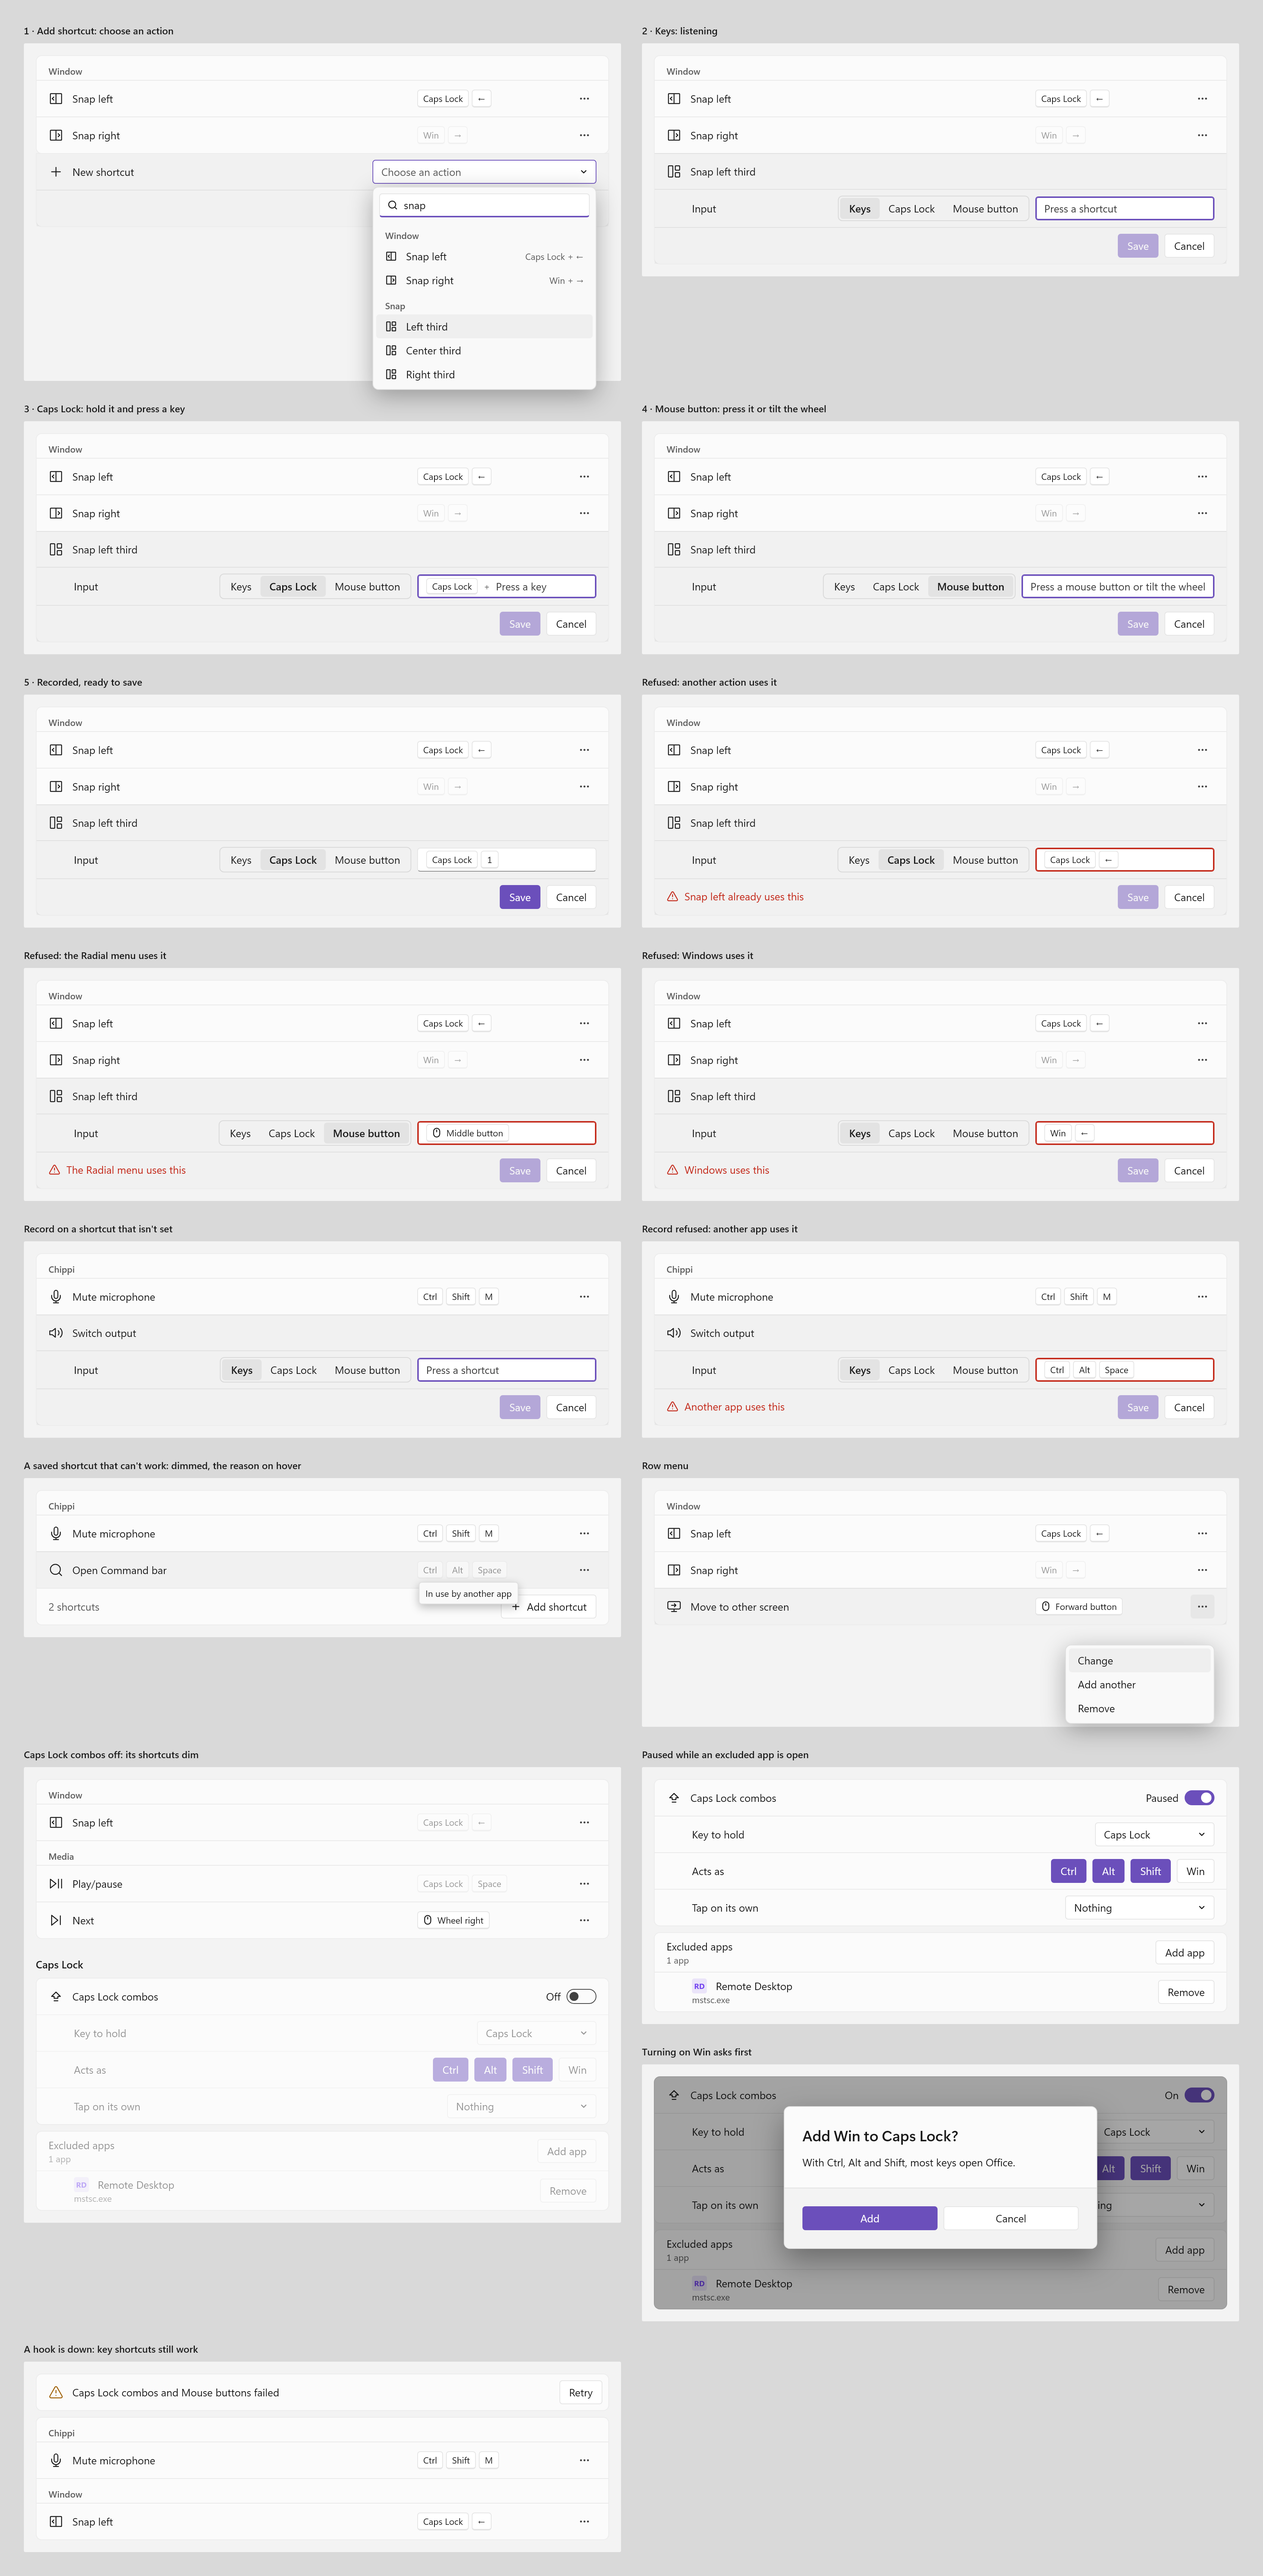
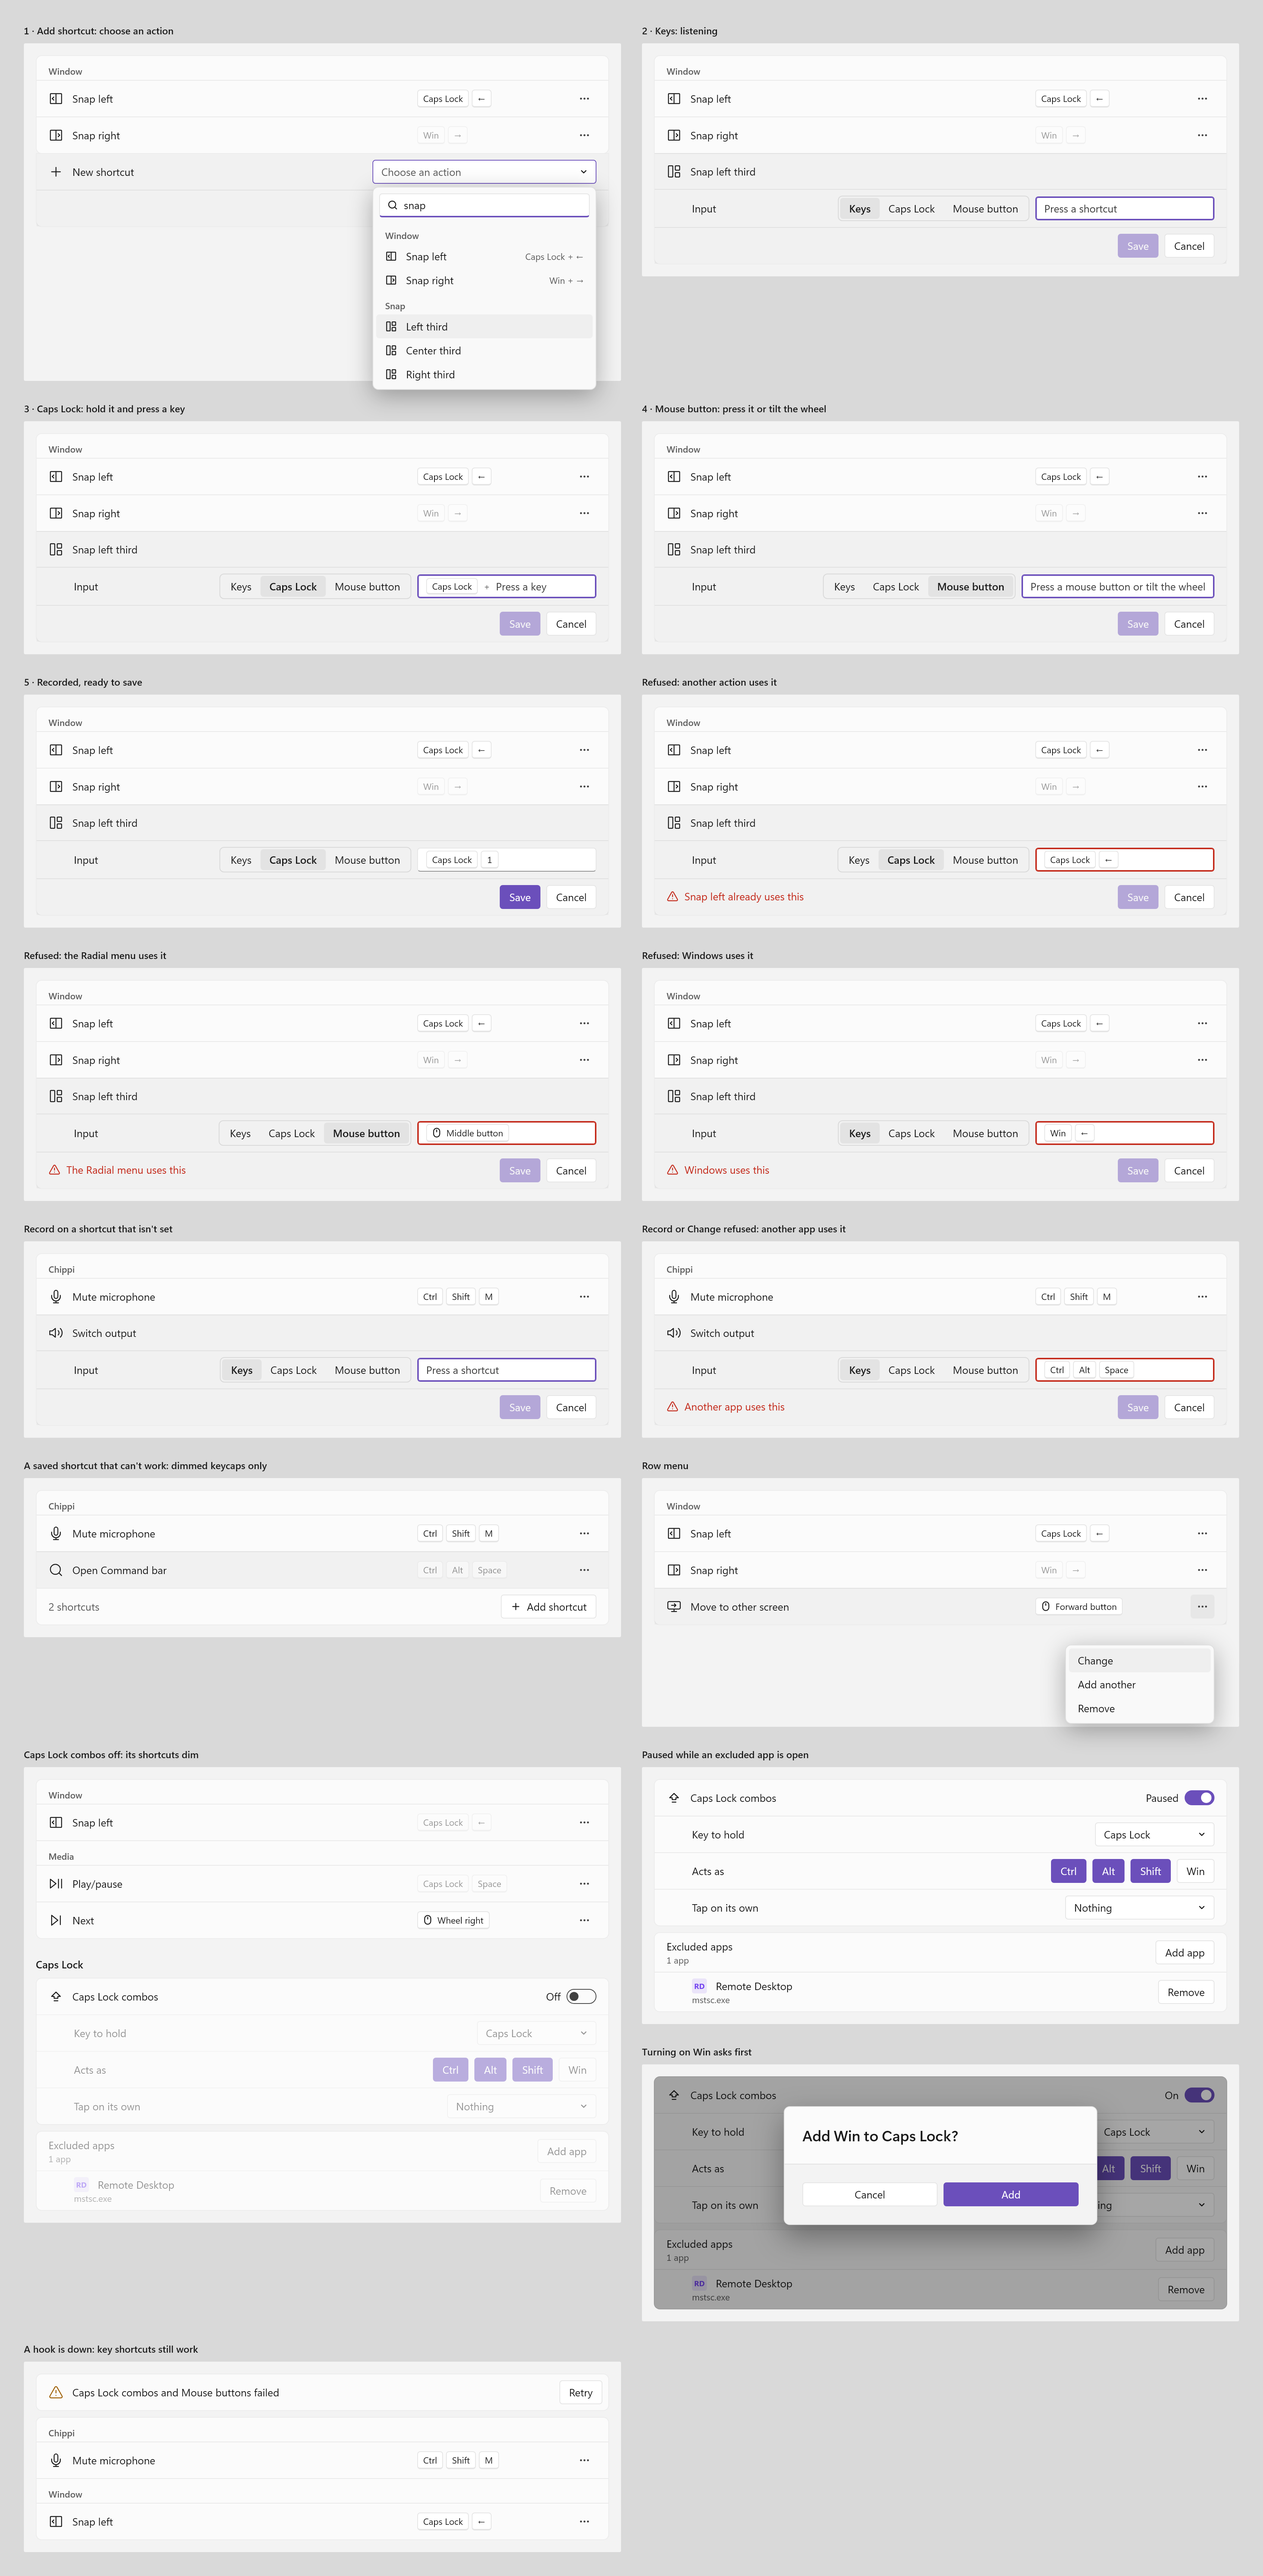
Shortcuts mockup: no tooltip on dimmed keycaps, Win confirm with no body line
Marge's review on #247: dimmed keycaps carry no explaining text, Change
shows the reason; "Add Win to Caps Lock?" with Cancel and Add, in the
app's confirm order.

Changed region(s): [[0.6206, 0.8415, 0.8688, 0.9039]]

diff --git a/docs/phase-6/design/shortcuts.html b/docs/phase-6/design/shortcuts.html
@@ -311,11 +311,11 @@ const cap=x=>x.startsWith('m:')?`<span class="kc">${g('Mouse',14)}${x.slice(2)}<
 const keys=(...k)=>`<span class="caps">${k.map(cap).join('')}</span>`;
 const capsK=k=>keys('Caps Lock',k);
 const btnK=n=>keys('m:'+n);
-const dim=(h,tip)=>h.replace('class="caps"',`class="caps dim" title="${tip}"`);
+const dim=h=>h.replace('class="caps"','class="caps dim"');
 
 /* ---------- the list: one row per binding, grouped like Actions ---------- */
-// state: undefined (Active), or one where the shortcut can't work: its keycaps dim, and the reason is
-// only the keycaps' tooltip and automation name (no state line on the row, Travis task 344).
+// state: undefined (Active), or one where the shortcut can't work: its keycaps only dim. No state line and no
+// tooltip (Travis task 344, Marge on #247); Change shows the reason when it's recorded again.
 const ST={
  other:'In use by another app',
  windows:'In use by Windows',
@@ -324,7 +324,7 @@ const ST={
  inactive:'Caps Lock combos are off'
 };
 const BR=(glyph,name,door,state,o={})=>{const s=ST[state];
- return SR(name,`<span class="kcol">${s?dim(door,s):door}</span>`+(o.unset?'<span class="kspace"></span>':more),{glyph,cls:o.cls});};
+ return SR(name,`<span class="kcol">${s?dim(door):door}</span>`+(o.unset?'<span class="kspace"></span>':more),{glyph,cls:o.cls});};
 const grp=t=>`<div class="grp">${t}</div>`;
 const LIST=[
  ['Chippi',[
@@ -402,8 +402,8 @@ const st={
  windows:card(listRows(head)+editor({glyph:'Snap',action:'Snap left third',door:'Keys',field:filled(keys('Win','←')),warn:'Windows uses this'})),
  recKeys:card(listRows([['Chippi',[LIST[0][1][0]]]])+editor({glyph:'Speaker',action:'Switch output',door:'Keys',field:listening('Press a shortcut')})),
  recOther:card(listRows([['Chippi',[LIST[0][1][0]]]])+editor({glyph:'Speaker',action:'Switch output',door:'Keys',field:filled(keys('Ctrl','Alt','Space')),warn:'Another app uses this'})),
- tip:`<div class="card" style="overflow:visible;position:relative">${listRows([['Chippi',LIST[0][1].slice(0,2)]]).replace(/(<div class="sr)(">(?:(?!<div class="sr).)*Open Command bar)/s,'$1 hov$2')}${addRow('2 shortcuts')}<div class="tip" style="left:512px;top:122px">In use by another app</div></div>`,
- winAsk:`<div style="position:relative">${capsCards()}<div style="position:absolute;inset:0;background:rgba(0,0,0,.35);border-radius:8px"></div><div class="cdlg" style="position:absolute;left:174px;top:40px"><div class="cb1"><div class="ct">Add Win to Caps Lock?</div>With Ctrl, Alt and Shift, most keys open Office.</div><div class="cf">${btn('Add',{acc:1})}${btn('Cancel')}</div></div></div>`,
+ tip:`<div class="card" style="overflow:visible;position:relative">${listRows([['Chippi',LIST[0][1].slice(0,2)]]).replace(/(<div class="sr)(">(?:(?!<div class="sr).)*Open Command bar)/s,'$1 hov$2')}${addRow('2 shortcuts')}</div>`,
+ winAsk:`<div style="position:relative">${capsCards()}<div style="position:absolute;inset:0;background:rgba(0,0,0,.35);border-radius:8px"></div><div class="cdlg" style="position:absolute;left:174px;top:40px"><div class="cb1"><div class="ct" style="margin:0">Add Win to Caps Lock?</div></div><div class="cf">${btn('Cancel')}${btn('Add',{acc:1})}</div></div></div>`,
  menu:`<div class="card" style="overflow:visible;position:relative">${listRows(head)}${BR('OtherScreen','Move to other screen',btnK('Forward button'),null,{cls:'hov'}).replace('aria-label="More options">','aria-label="More options" style="background:var(--shov)">')}
   <div class="pop" style="right:16px;top:206px;width:200px"><div class="pi hov">Change</div><div class="pi">Add another</div><div class="pi">Remove</div></div></div><div style="height:120px"></div>`,
  off:`${card(listRows([['Window',LIST[1][1].slice(0,1)],['Media',LIST[2][1]]],{inactiveCaps:1}))}${sec('Caps Lock')}${capsCards({on:0})}`,
@@ -420,8 +420,8 @@ const B={
   <div class="srow">${stLabel('3 · Caps Lock: hold it and press a key',st.caps)}${stLabel('4 · Mouse button: press it or tilt the wheel',st.mouse)}</div>
   <div class="srow">${stLabel('5 · Recorded, ready to save',st.ready)}${stLabel('Refused: another action uses it',st.twice)}</div>
   <div class="srow">${stLabel('Refused: the Radial menu uses it',st.radial)}${stLabel('Refused: Windows uses it',st.windows)}</div>
-  <div class="srow">${stLabel('Record on a shortcut that isn\'t set',st.recKeys)}${stLabel('Record refused: another app uses it',st.recOther)}</div>
-  <div class="srow">${stLabel('A saved shortcut that can\'t work: dimmed, the reason on hover',st.tip)}${stLabel('Row menu',st.menu)}</div>
+  <div class="srow">${stLabel('Record on a shortcut that isn\'t set',st.recKeys)}${stLabel('Record or Change refused: another app uses it',st.recOther)}</div>
+  <div class="srow">${stLabel('A saved shortcut that can\'t work: dimmed keycaps only',st.tip)}${stLabel('Row menu',st.menu)}</div>
   <div class="srow">${stLabel('Caps Lock combos off: its shortcuts dim',st.off)}<div style="display:flex;flex-direction:column;gap:28px">${stLabel('Paused while an excluded app is open',st.paused)}${stLabel('Turning on Win asks first',st.winAsk)}</div></div>
   <div class="srow">${stLabel('A hook is down: key shortcuts still work',st.hook)}</div>`
 };

diff --git a/docs/phase-6/design/notes.md b/docs/phase-6/design/notes.md
@@ -35,11 +35,11 @@ Add `?board=<id>&theme=dark|light` to any page to see one board.
 Travis approved with three caveats (2026-11-05): the keycaps weren't uniform down the column, he didn't want warning text on the rows, and "Off in these apps" was too verbose. The revision:
 
 1. **One keys column.** Every row's keycaps (or its Record button) start at the same point, in a 200-wide column before the row's More button. A row without More keeps the space, so the column doesn't move.
-2. **No state lines on rows.** A saved shortcut that can't work (another app or Windows holds it, its app is gone, the Radial menu holds the button, Caps Lock combos are off) shows only dimmed keycaps. The reason is the keycaps' tooltip and their automation name, so a screen reader hears it.
+2. **No state lines on rows.** A saved shortcut that can't work (another app or Windows holds it, its app is gone, the Radial menu holds the button, Caps Lock combos are off) shows only dimmed keycaps, with no tooltip (Marge on #247: no explaining text). Change shows the reason when it's recorded again (3).
 3. **Clashes are refused in the editor.** Add shortcut, Record and Change all open the same editor. A clash keeps the pressed keys in the field with a red border, leaves Save off, and says why on the Save row: "Snap left already uses this", "The Radial menu uses this", "Windows uses this", "Another app uses this". Pressing again replaces it.
 4. **"Excluded apps"** names both sections' app lists.
 5. **The Caps Lock switch says "Paused"** in place of "On" while an excluded app is open, with no caption.
-6. **The Win warning is a confirm** (Travis's task 211 #10 asked for a warning): turning on Win asks "Add Win to Caps Lock?", "With Ctrl, Alt and Shift, most keys open Office.", with Add and Cancel. That claim is still unconfirmed (`shortcuts.md`).
+6. **The Win warning is a confirm** (Travis's task 211 #10 asked for a warning): turning on Win asks "Add Win to Caps Lock?" with Cancel and Add, in that order like the app's other confirms, and no body line (Marge on #247).
 
 ## Option B's tile order
 

diff --git a/docs/phase-6/shortcuts.md b/docs/phase-6/shortcuts.md
@@ -38,7 +38,7 @@ Empty state: "No shortcuts yet. Add the first one."
 
 ### States and clashes
 
-**How the page shows them (Travis, 2026-11-05, task 344; `design/shortcuts.html`):** no row has a state or warning line. Add shortcut, Record and Change refuse a press that clashes at the moment it's recorded (used twice, the Radial menu, Windows, another app): the keys stay in the field, Save stays off, and one short line on the Save row says who uses it ("Snap left already uses this", "The Radial menu uses this", "Windows uses this", "Another app uses this"). A saved shortcut that stops working later shows dimmed keycaps, and its state below is only their tooltip and automation name. The wording in the list below is replaced by those lines.
+**How the page shows them (Travis, 2026-11-05, task 344; `design/shortcuts.html`):** no row has a state or warning line. Add shortcut, Record and Change refuse a press that clashes at the moment it's recorded (used twice, the Radial menu, Windows, another app): the keys stay in the field, Save stays off, and one short line on the Save row says who uses it ("Snap left already uses this", "The Radial menu uses this", "Windows uses this", "Another app uses this"). A saved shortcut that stops working later shows only dimmed keycaps, with no tooltip; Change shows the reason when it's recorded again. Turning on Win asks "Add Win to Caps Lock?" with Cancel and Add, which replaces the warning below. The wording in the list below is replaced by those lines.
 
 - **Active**, **Inactive** (its feature is off).
 - **Used twice:** two Chippi bindings on one door. The second doesn't save: "{action} already uses this." For a mouse button: "That button or direction is already on the list."
